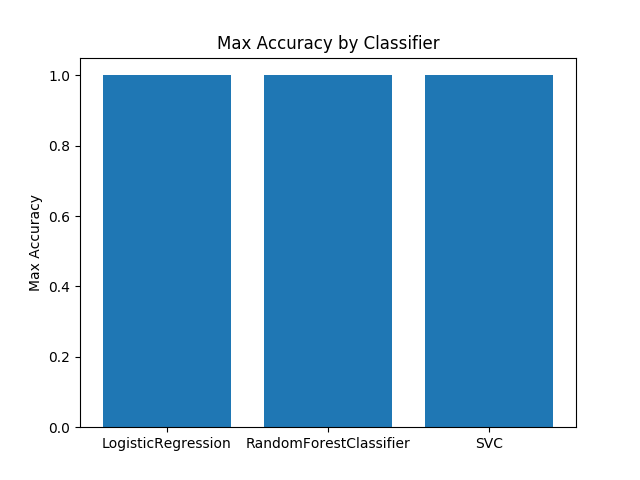
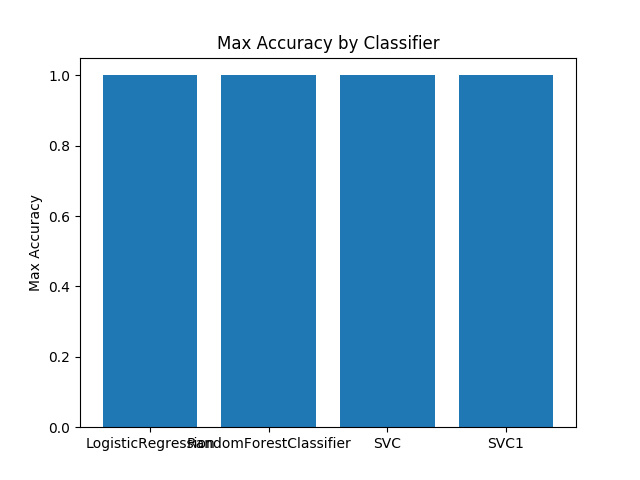
Fixed bug improved best model search
Fixed bug where if a classifier already existed in the master results dict in DeathToGridSearch() it would over write it. Also search for best model now averages across all K folds.

Changed region(s): [[0.125, 0.1562, 0.7188, 0.9375], [0.75, 0.9062, 0.8125, 0.9375]]

diff --git a/DeathToGridSearch.py b/DeathToGridSearch.py
@@ -8,6 +8,7 @@ from sklearn import datasets
 from itertools import product
 import matplotlib.pyplot as plt
 import matplotlib
+from functools import reduce
 # adapt this code below to run your analysis
  
 # Due before live class 2
@@ -99,8 +100,12 @@ def DeathToGridSearch(searchList):
           cls_name = str(classifier).split(".")[-1] #this is where the actual classifer is in the class
           cls_name = cls_name.replace("'>","")
 
-          master_results[cls_name] = res
-
+          while True:
+            if cls_name in master_results.keys():
+              cls_name += str(1)
+            if not cls_name in master_results.keys():
+              master_results[cls_name] = res
+              break
 
   # find the best results
   def find_best_model():
@@ -109,12 +114,17 @@ def DeathToGridSearch(searchList):
 
     for k in master_results.keys():
       this_clf = master_results[k]
+      this_clf_accs = []
 
       for i in range(len(this_clf)):
-        if this_clf[i]['accuracy'] > temp_best_score:
-          temp_best_score = this_clf[i]['accuracy']
-          temp_best_model = this_clf[i]
-    
+          this_clf_accs.append(this_clf[i]['accuracy'])
+
+      avg_acc  = reduce(lambda x,y: x+y, this_clf_accs) / len(this_clf_accs)
+
+      if avg_acc > temp_best_score:
+        temp_best_score = avg_acc
+        temp_best_model = this_clf #the hypers should all be the same for each clf, keeping all info
+          
     return temp_best_model
 
   best_model = find_best_model()
